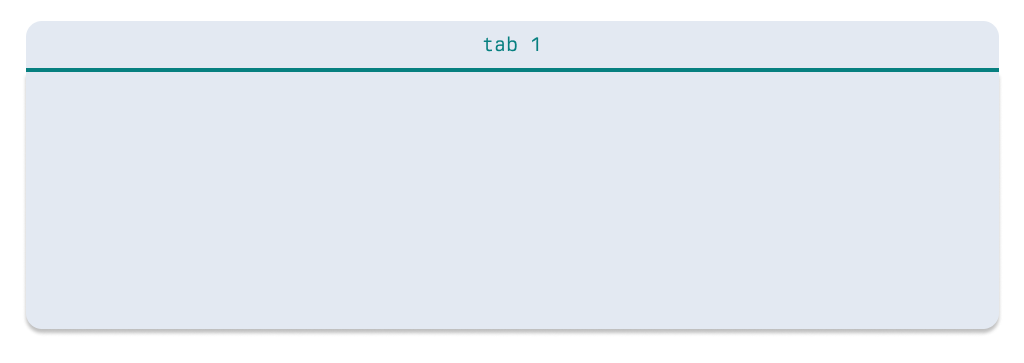
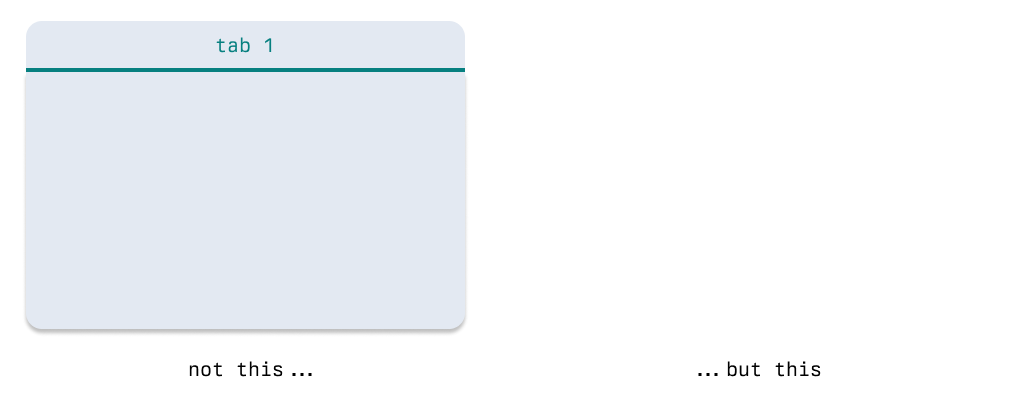
small adjustment in the text

diff --git a/src/writing/combining-has-and-only-child-to-change-tab-containers.md b/src/writing/combining-has-and-only-child-to-change-tab-containers.md
@@ -24,7 +24,7 @@ You created this reusable component in your framework of choice and sprinkled so
 
 ![Example of a styled tab container with only one tab](/img/tab-example-2.png)
 
-But that was not what we intended. Showing a tab container (including the button) if there is only one 'tab' available is redundant. Let alone confusing and probably inconsistent with pages that only have a single 'content' by default. Well damn...
+But that was not what we intended. Showing a tab container (including the button) if there is only one 'tab' available is redundant. Let alone confusing and probably inconsistent with pages that only have a single 'content' by default. Well damn... we just want a 'card' in this case.
 
 ## Why not use X?
 When you use one of the modern front-end frameworks, you should have little trouble implementing a fix. You can add custom logic to count the amount of tabs the container will have. Based on that exercise, you can remove certain elements from the screens (e.g. the tab buttons) and add different classes to the content.
